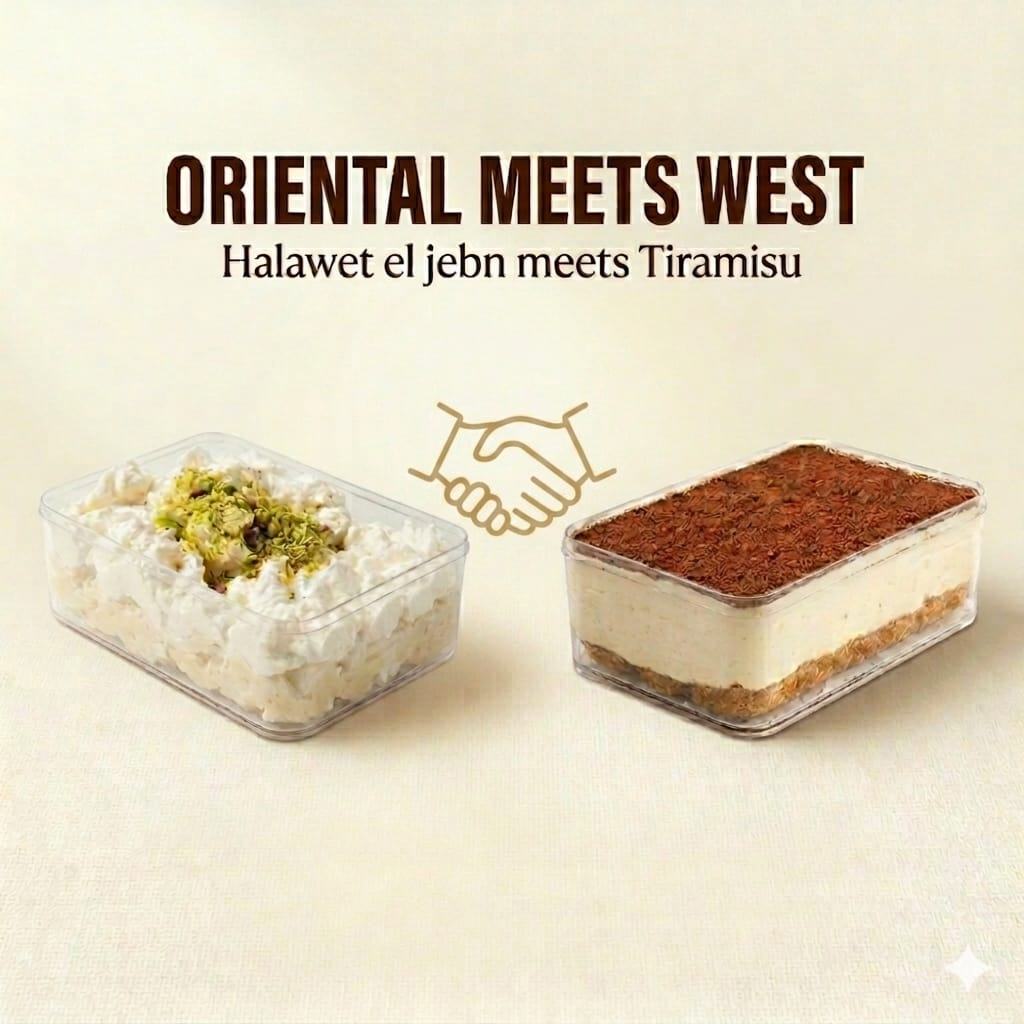
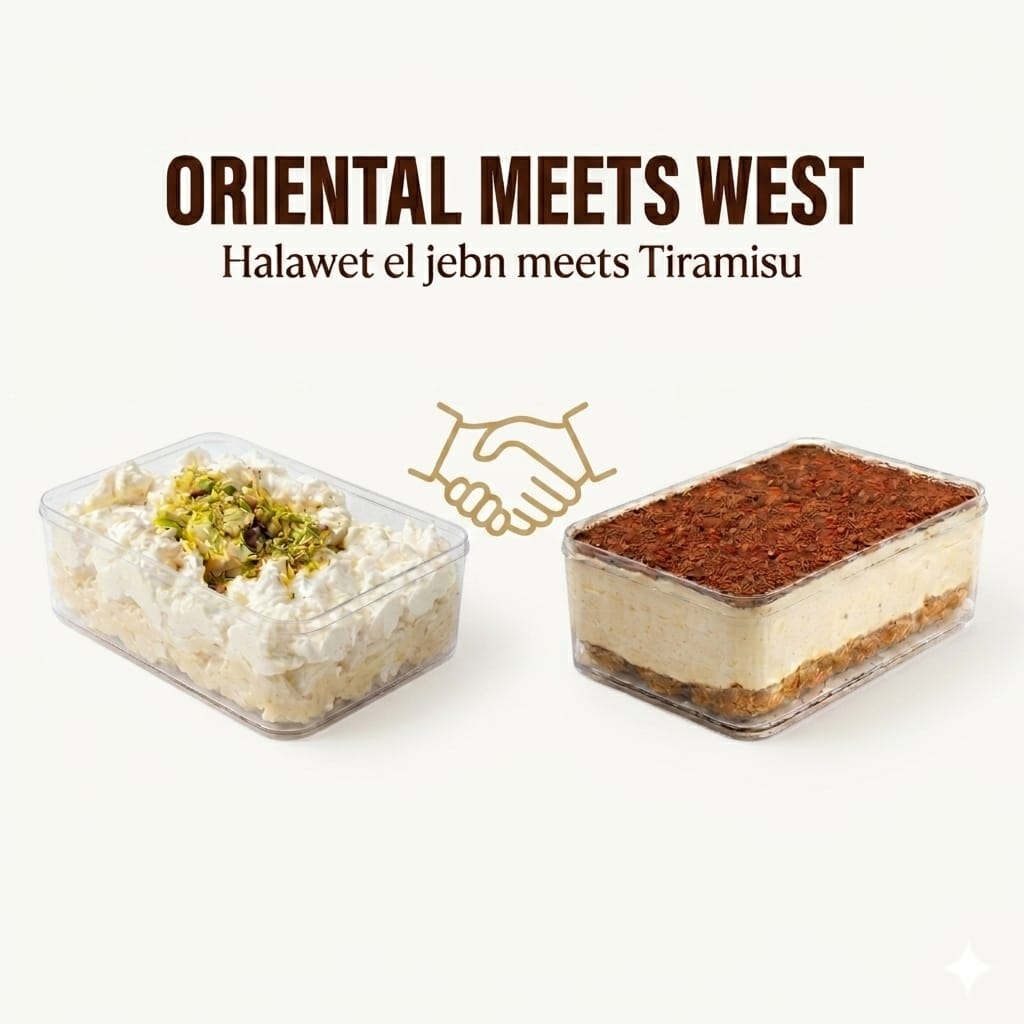
feat: add Osmaliyeh photo, fix desc, upgrade story image quality
- Add Osmaliyeh photo and fix description (kunafa → osmaliyeh)
- Replace story image with higher-quality Oriental Meets West shot

diff --git a/app/page.tsx b/app/page.tsx
@@ -51,7 +51,7 @@ const allFlavors: {
   image: string | null;
 }[] = [
   { id: "halawet-jibn",      name: "Halawet El Jibn",         desc: "Sweet cheese rolls filled with ashta, soaked in rose syrup.",  boxPrice: 4, trayPrice: null, tier: "classic", category: "oriental", image: "/menu/halawet-el-jibn.png" },
-  { id: "osmaliyeh",         name: "Osmaliyeh",               desc: "Crisp shredded kunafa layered with ashta and pistachios.",     boxPrice: 4, trayPrice: null, tier: "classic", category: "oriental", image: null },
+  { id: "osmaliyeh",         name: "Osmaliyeh",               desc: "Crisp shredded osmaliyeh pastry with ashta cream and pistachios.", boxPrice: 4, trayPrice: null, tier: "classic", category: "oriental", image: "/menu/osmaliyeh.jpg" },
   { id: "halawet-riz",       name: "Halawet el Riz",          desc: "Traditional Levantine rice cream, sweetened with rose.",        boxPrice: 4, trayPrice: null, tier: "classic", category: "oriental", image: "/menu/halawet-el-riz.png" },
   { id: "moufataka",         name: "Moufataka",               desc: "Lebanese classic — rice pudding, caramel, nuts.",              boxPrice: 4, trayPrice: null, tier: "classic", category: "oriental", image: "/menu/moufataka.jpg" },
 